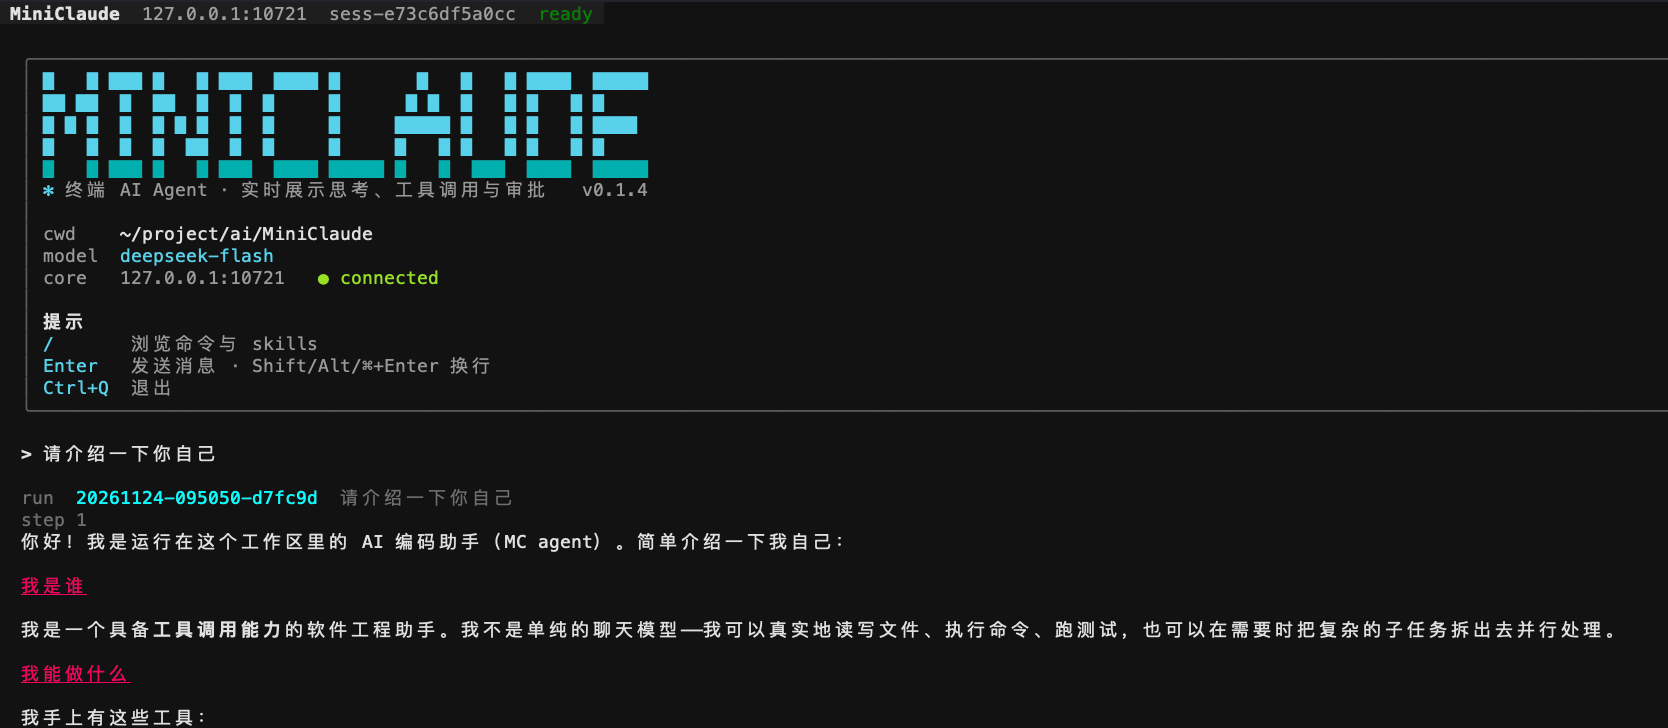
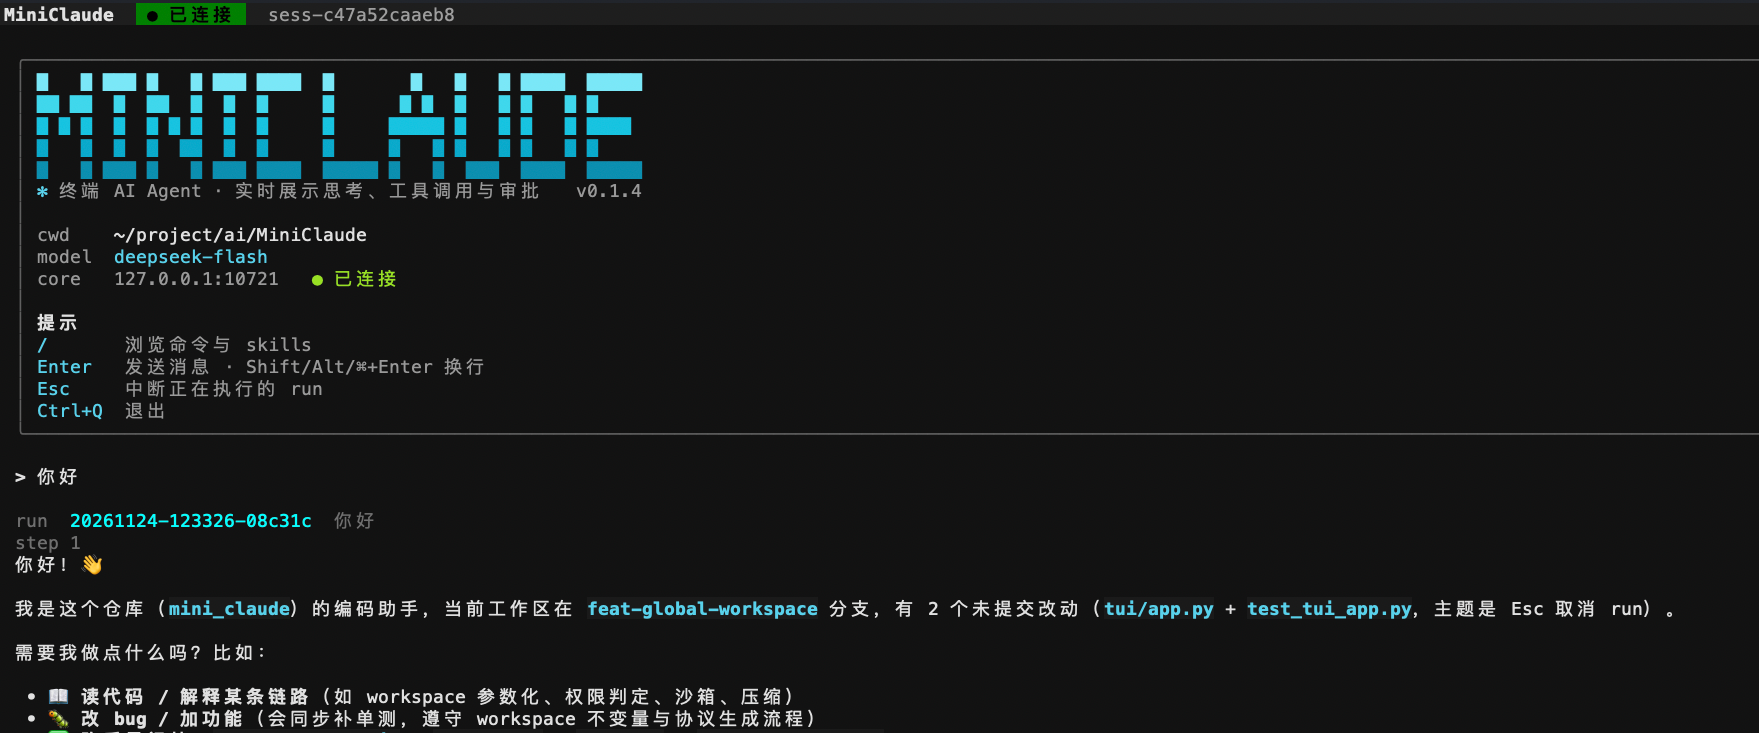
[feat] 优化README.MD

diff --git a/README.md b/README.md
@@ -2,7 +2,15 @@
 
 ![mc-tui主界面](docs/imgs/mc-tui主界面.png)
 
-本地 AI Agent 系统。`mc-core` 作为常驻守护进程统一处理所有任务，`mc`（CLI）与 `mc-tui`（TUI）通过 TCP loopback 与之通信。
+MiniClaude 是一个仿 Claude Code 的本地 AI Agent 系统，面向终端里的真实开发任务：阅读代码、改写文件、执行命令、排查故障，并以多轮对话持续推进。
+
+
+
+## 总体架构
+
+采用「单 daemon + 多客户端」架构：`mc-core` 常驻后台，负责会话管理、agent 循环与工具执行；`mc-tui`（Textual 界面）和 `mc`（命令行）通过本地 TCP 上的 JSON-RPC + NDJSON 接入，多个终端共享同一份会话与执行环境。
+
+与直接调用模型 API 相比，MiniClaude 把执行链路做成可审批、可沙箱、可恢复、可观测的闭环：敏感工具调用先经过权限审批，命令在可选的系统级沙箱中运行；会话与每次 run 的事件全部持久化，支持恢复、回放和上下文压缩；进程内事件总线驱动 TUI 实时渲染，并提供 IPC/事件/LLM 三层 trace。
 
 ```mermaid
 flowchart LR
@@ -18,21 +26,37 @@ flowchart LR
         AG["agent loop"]
         TL["tools / sandbox"]
         PM["permissions"]
+        BUS[["EventBus<br/>进程内事件总线"]]
+        EW["event writer"]
+        IPC["IPC broadcaster<br/>topic / scope 过滤"]
+        TR["trace writer"]
+
         SM --> AG
         AG --> TL
         AG --> PM
+        SM -->|session.*| BUS
+        AG -->|run/step/llm/context 事件| BUS
+        TL -->|tool.* / permission.*| BUS
+        BUS --> EW
+        BUS --> IPC
+        BUS -.->|trace 开启时| TR
     end
 
     LLM["LLM API<br/>Anthropic 兼容协议"]
     STORE[("~/.mc/sessions")]
     CFG["~/.mc/.env<br/>~/.mc/config.toml"]
 
-    TUI -- "TCP loopback · NDJSON" --> SM
-    MC -- "TCP loopback · NDJSON" --> SM
-    AG -- "HTTPS（ANTHROPIC_BASE_URL）" --> LLM
+    TUI -->|JSON-RPC · TCP loopback · NDJSON| SM
+    MC -->|JSON-RPC · TCP loopback · NDJSON| SM
+    IPC -.->|event 推送| TUI
+    IPC -.->|event 推送| MC
+    AG -->|HTTPS（ANTHROPIC_BASE_URL）| LLM
     SM --> STORE
-    DAEMON -. 启动时读取 .-> CFG
+    EW -->|events.jsonl| STORE
+    DAEMON -.->|启动时读取| CFG
 ```
+
+所有组件产出的事件都先发布到 `EventBus`，再由三类订阅者消费：`event writer` 落盘 `events.jsonl`、`IPC broadcaster` 按 topic/scope 推送给已订阅客户端、`trace writer`（可选）写入追踪日志。
 
 ## 特性
 
